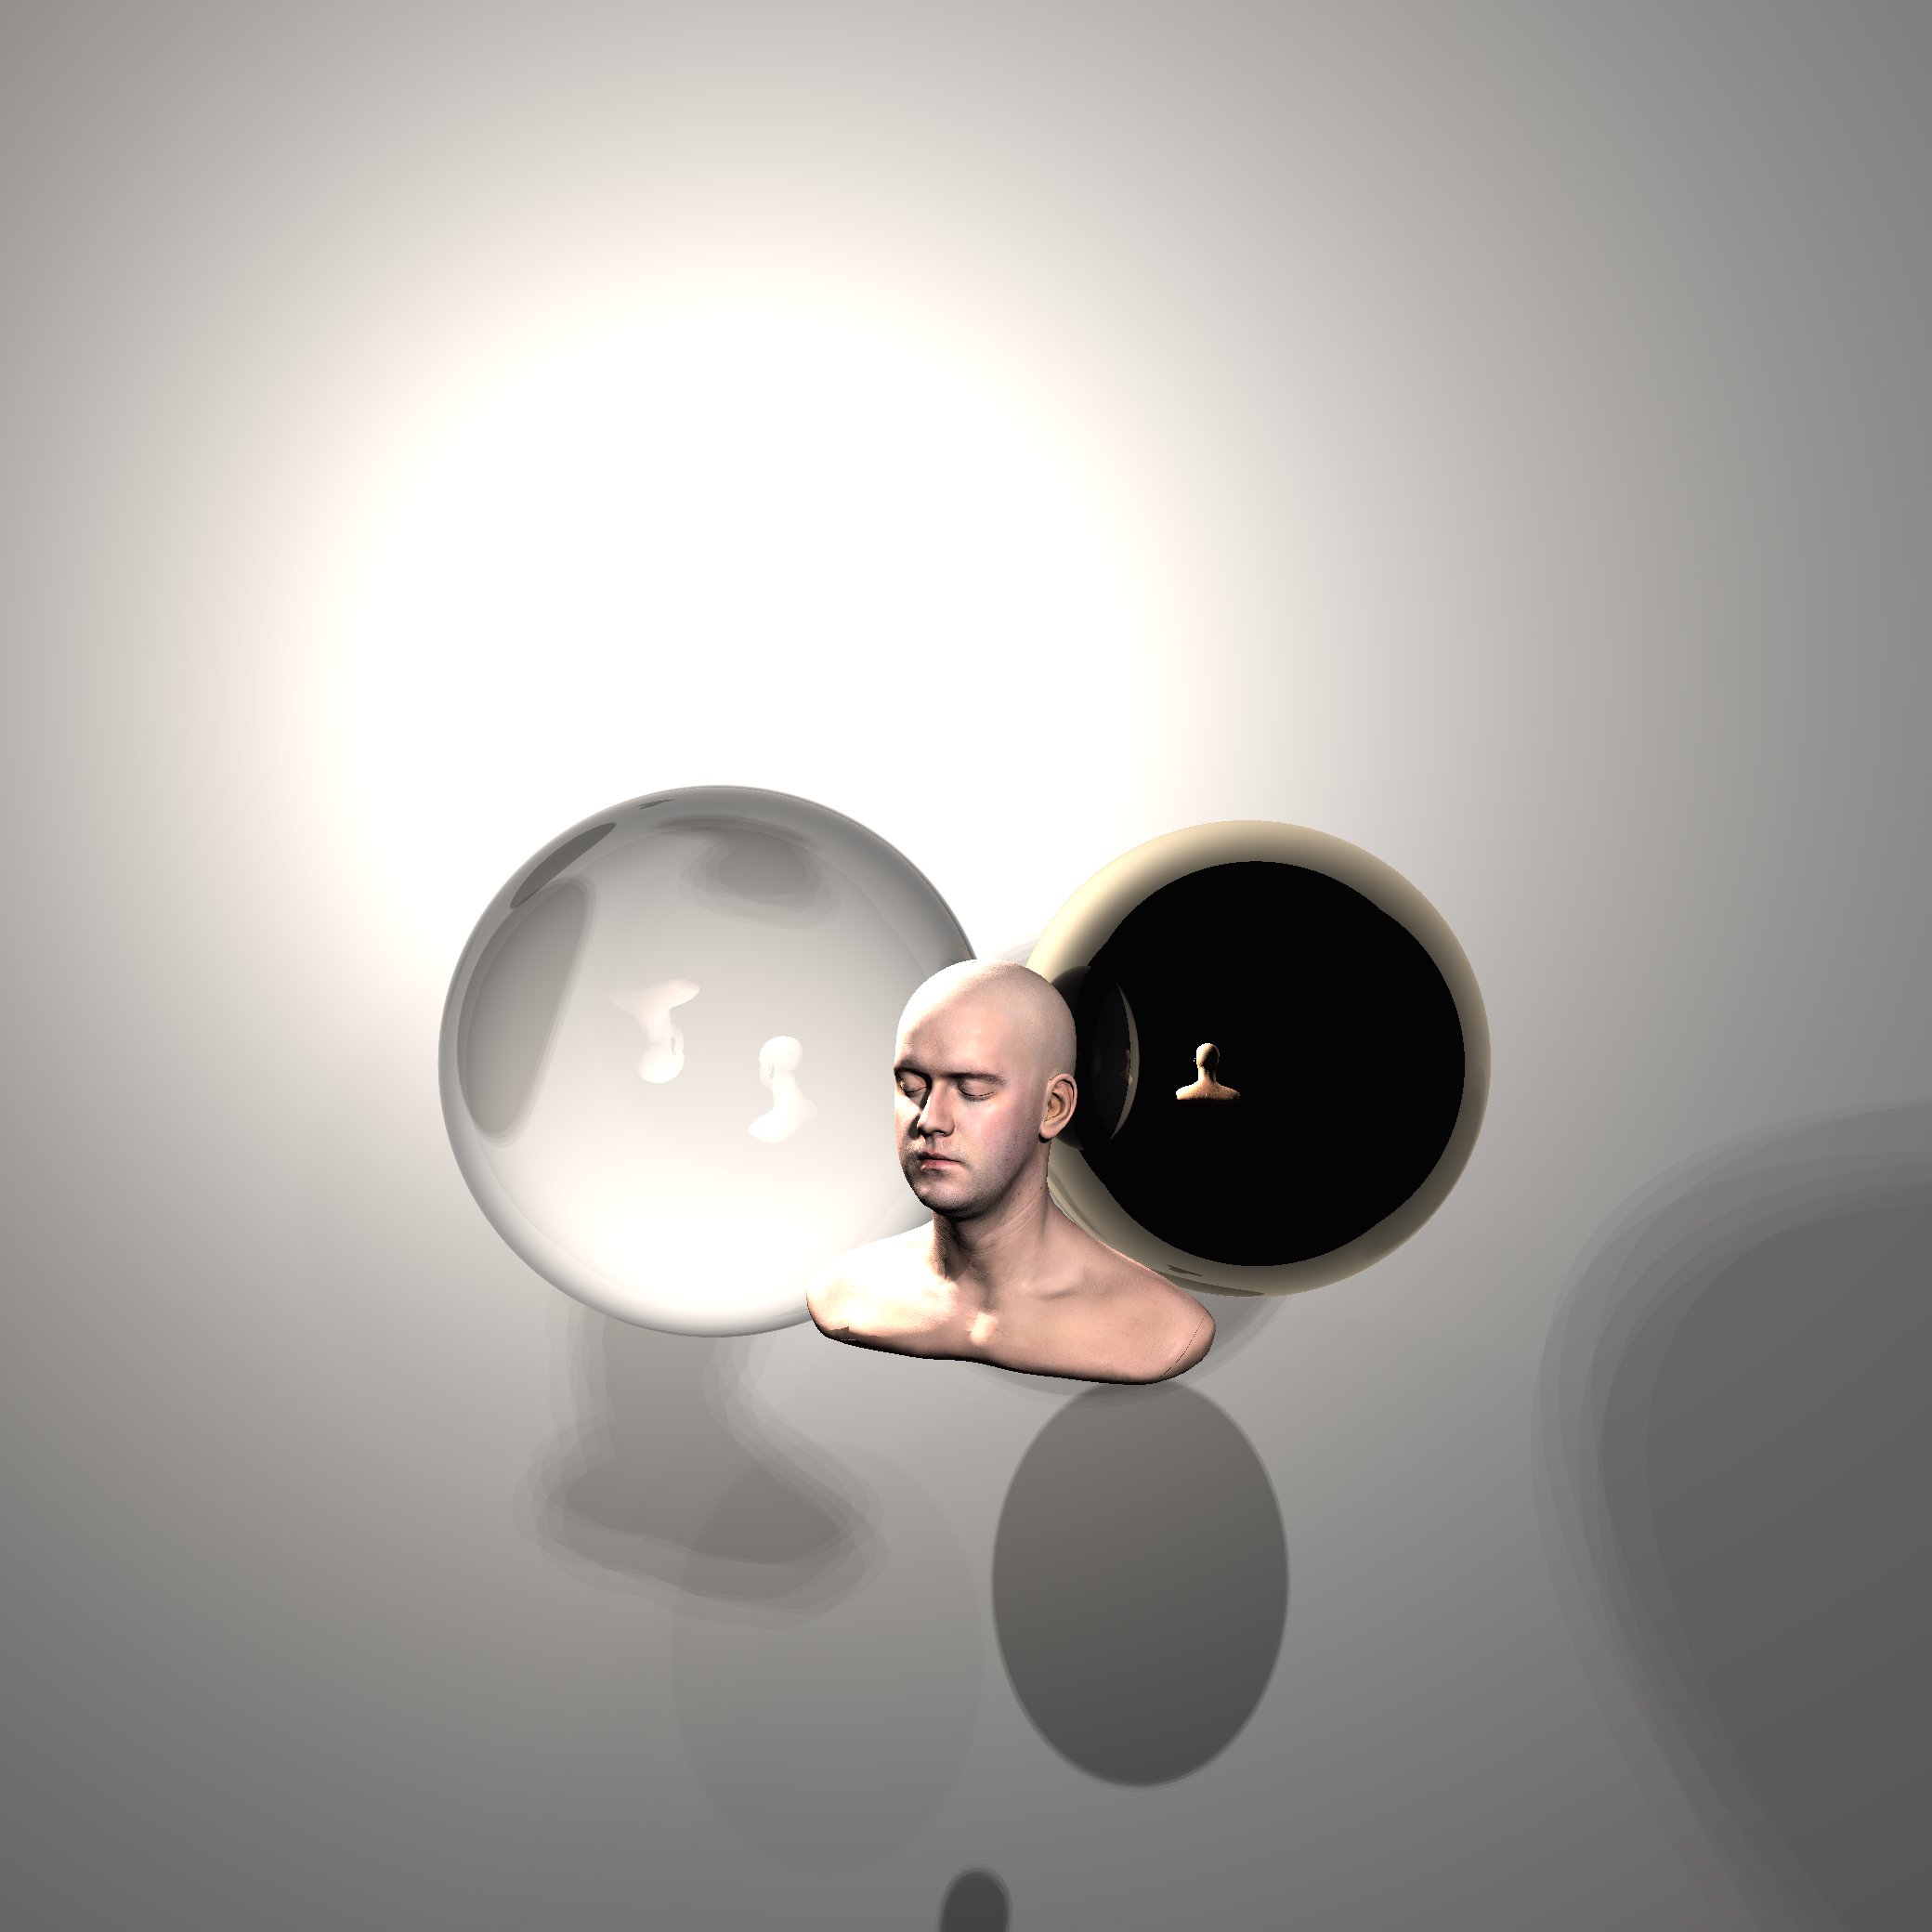
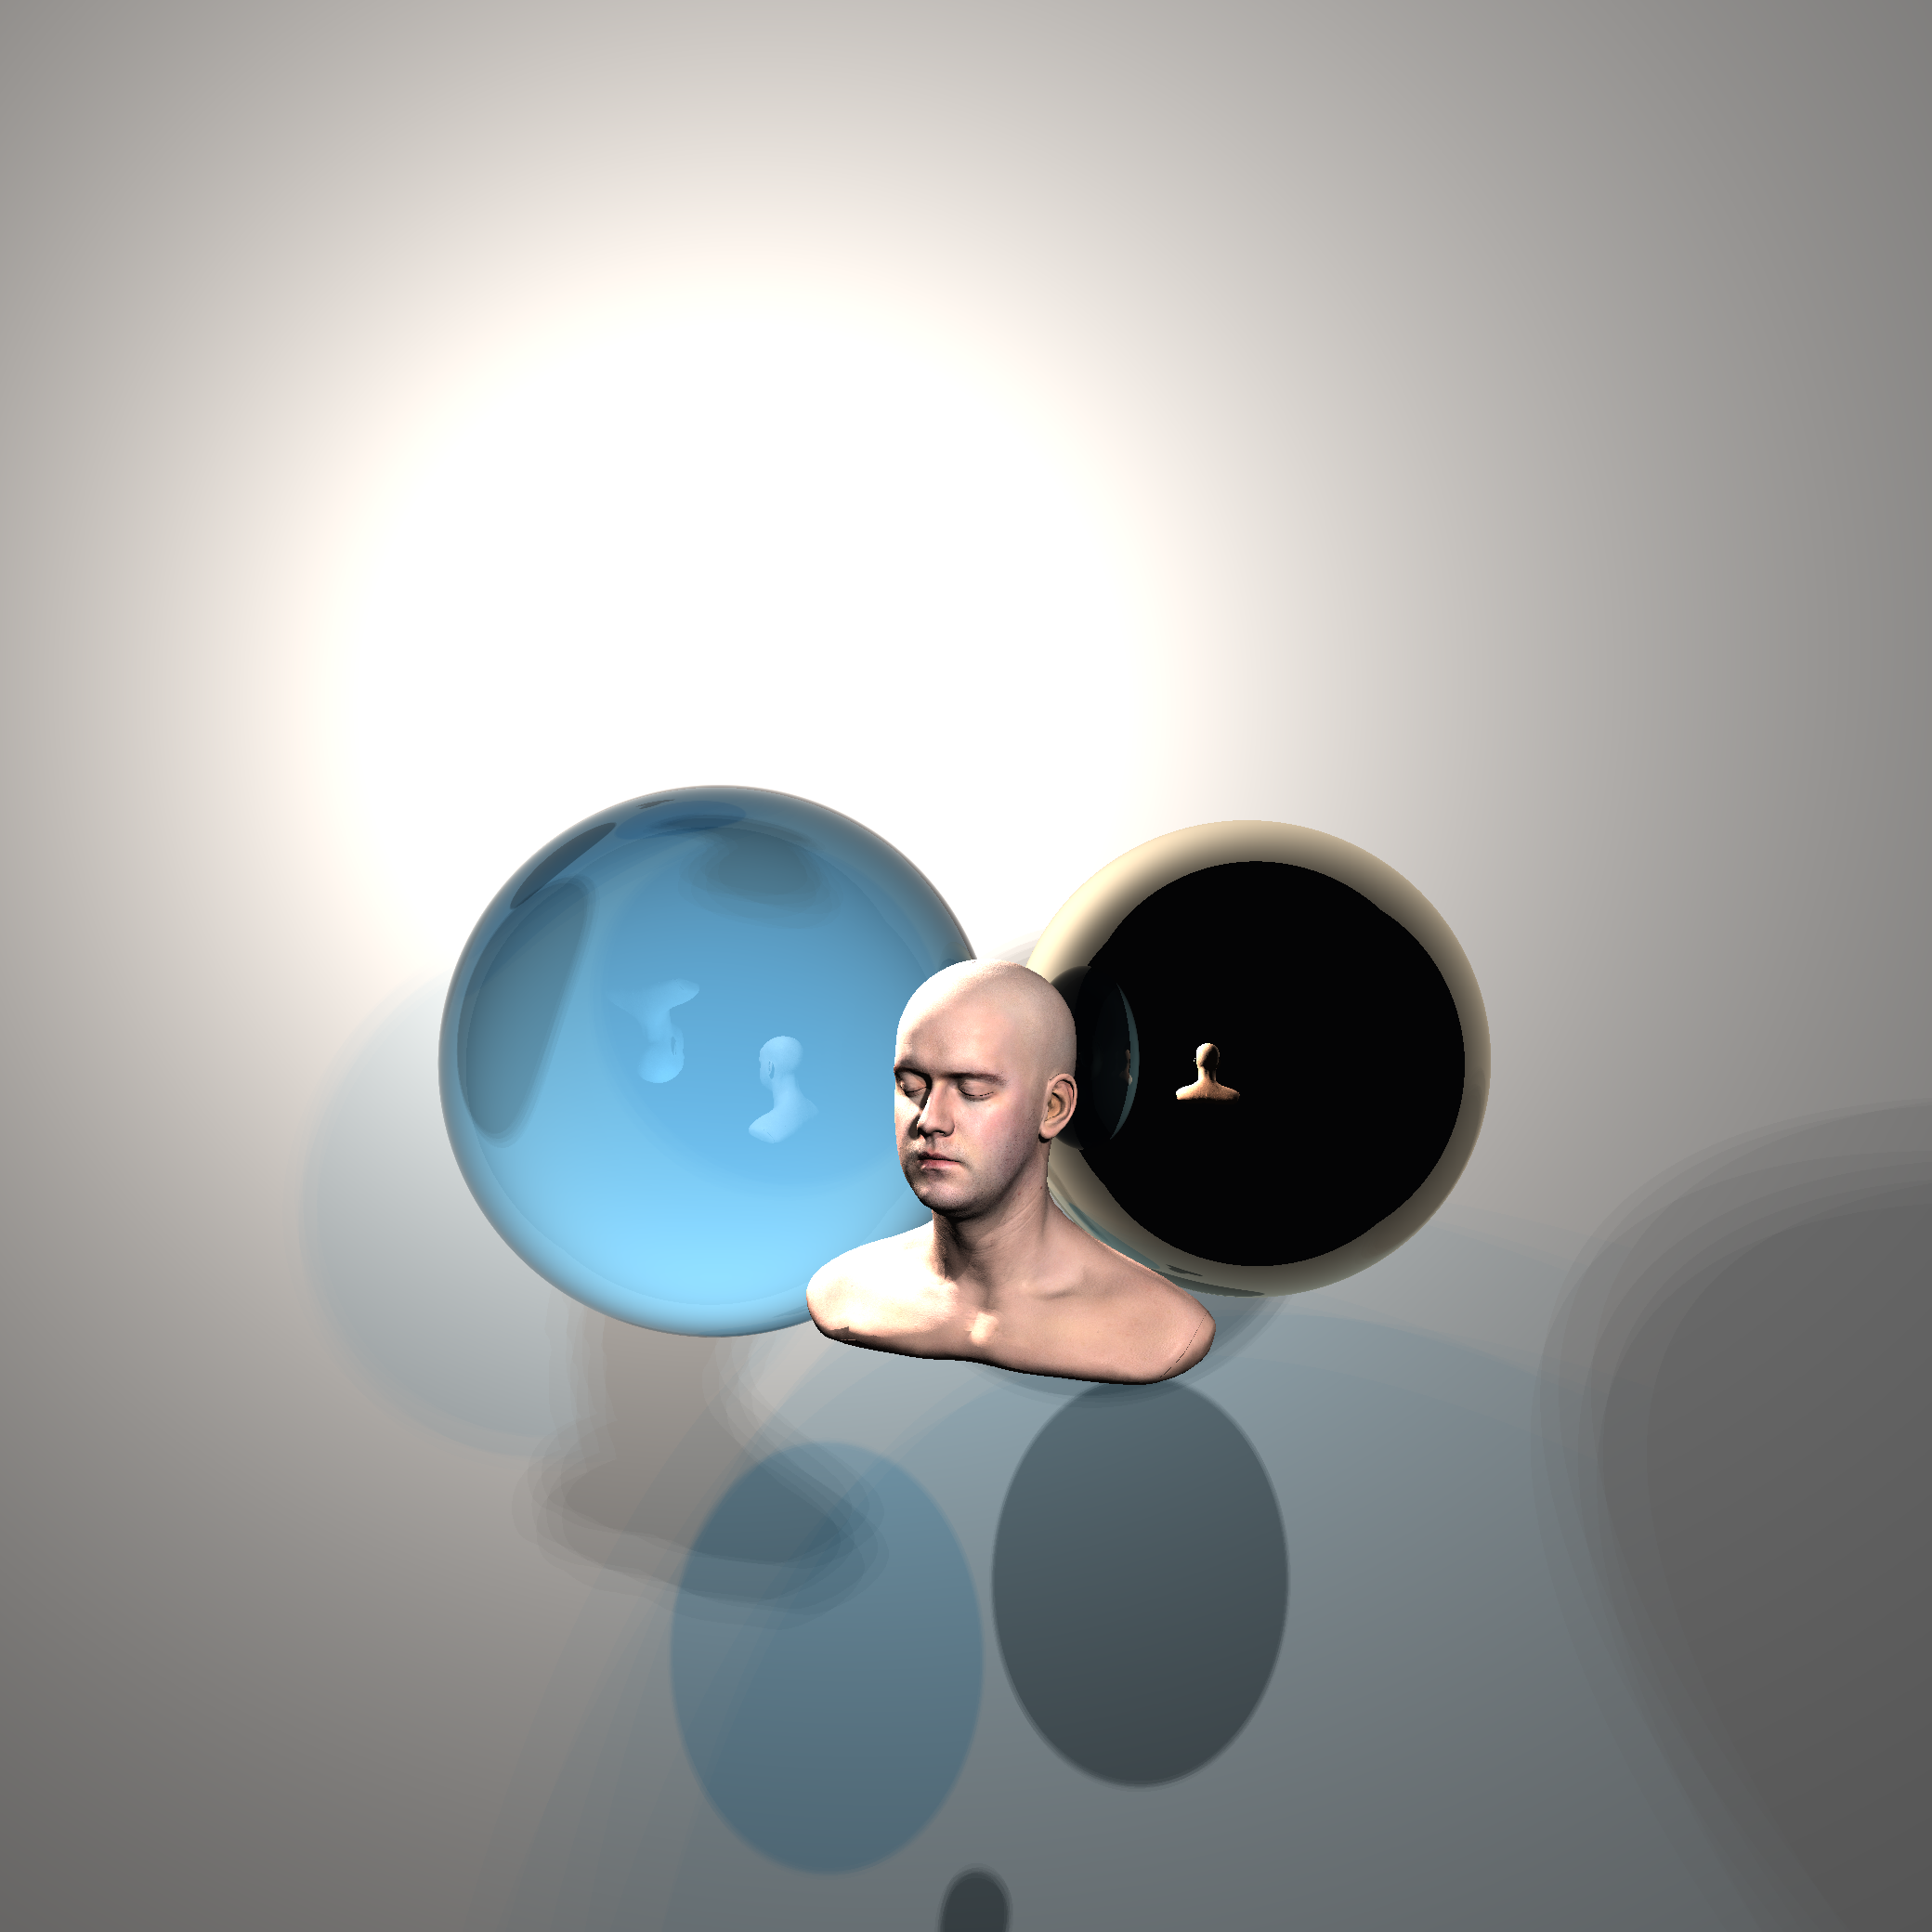
Add volumetric absorption (Beer-Lambert)
Introduce per-material absorption (absorption strength and absorbcolor) and apply Beer-Lambert attenuation to refracted rays. Material now stores absorptionColor and absorptionStrength, exposes getters and computeAbsorptionTransmittance(distance). SceneFileLoader parses absorption and absorbcolor options and propagates them when constructing materials. Geometry classes (Sphere, Triangle, MeshObject3D) forward absorption data into Material. Raytracer multiplies refraction contributions by the computed transmittance when entering a medium. README, example scene, and output image updated to demonstrate tinted glass. Defaults and clamps added to keep values stable.

diff --git a/Project/src/raytracer/material/Material.java b/Project/src/raytracer/material/Material.java
@@ -22,13 +22,15 @@ public class Material {
     private final double transmission;
     private final double ior;
     private final double metalness;
+    private final Color absorptionColor;
+    private final double absorptionStrength;
 
     public Material(Color baseColor, double specularStrength, double shininess, Color specularColor) {
-        this(baseColor, specularStrength, shininess, specularColor, 0.0, 1.0, null, null, null, null, 1.0, 0.0, 0.0, 1.5, 0.0);
+        this(baseColor, specularStrength, shininess, specularColor, 0.0, 1.0, null, null, null, null, 1.0, 0.0, 0.0, 1.5, 0.0, Color.WHITE, 0.0);
     }
 
     public Material(Color baseColor, double specularStrength, double shininess, Color specularColor, Texture2D albedoTexture) {
-        this(baseColor, specularStrength, shininess, specularColor, 0.0, 1.0, albedoTexture, null, null, null, 1.0, 0.0, 0.0, 1.5, 0.0);
+        this(baseColor, specularStrength, shininess, specularColor, 0.0, 1.0, albedoTexture, null, null, null, 1.0, 0.0, 0.0, 1.5, 0.0, Color.WHITE, 0.0);
     }
 
     public Material(
@@ -42,7 +44,7 @@ public class Material {
         Texture2D normalTexture,
         Texture2D roughnessTexture
     ) {
-        this(baseColor, specularStrength, shininess, specularColor, roughness, normalStrength, albedoTexture, normalTexture, roughnessTexture, null, 1.0, 0.0, 0.0, 1.5, 0.0);
+        this(baseColor, specularStrength, shininess, specularColor, roughness, normalStrength, albedoTexture, normalTexture, roughnessTexture, null, 1.0, 0.0, 0.0, 1.5, 0.0, Color.WHITE, 0.0);
     }
 
     public Material(
@@ -73,6 +75,8 @@ public class Material {
             0.0,
             0.0,
             1.5,
+            0.0,
+            Color.WHITE,
             0.0
         );
     }
@@ -94,6 +98,46 @@ public class Material {
         double ior,
         double metalness
     ) {
+        this(
+            baseColor,
+            specularStrength,
+            shininess,
+            specularColor,
+            roughness,
+            normalStrength,
+            albedoTexture,
+            normalTexture,
+            roughnessTexture,
+            bumpTexture,
+            bumpStrength,
+            reflectivity,
+            transmission,
+            ior,
+            metalness,
+            Color.WHITE,
+            0.0
+        );
+    }
+
+    public Material(
+        Color baseColor,
+        double specularStrength,
+        double shininess,
+        Color specularColor,
+        double roughness,
+        double normalStrength,
+        Texture2D albedoTexture,
+        Texture2D normalTexture,
+        Texture2D roughnessTexture,
+        Texture2D bumpTexture,
+        double bumpStrength,
+        double reflectivity,
+        double transmission,
+        double ior,
+        double metalness,
+        Color absorptionColor,
+        double absorptionStrength
+    ) {
         this.baseColor = baseColor == null ? Color.WHITE : baseColor;
         this.specularStrength = Math.max(0.0, specularStrength);
         this.shininess = Math.max(1.0, shininess);
@@ -109,10 +153,12 @@ public class Material {
         this.transmission = clamp01(transmission);
         this.ior = Math.max(1.0, ior);
         this.metalness = clamp01(metalness);
+        this.absorptionColor = absorptionColor == null ? Color.WHITE : absorptionColor;
+        this.absorptionStrength = Math.max(0.0, absorptionStrength);
     }
 
     public static Material fromLegacy(Color color, double specularStrength, double shininess, Color specularColor) {
-        return new Material(color, specularStrength, shininess, specularColor, 0.0, 1.0, null, null, null, null, 1.0, 0.0, 0.0, 1.5, 0.0);
+        return new Material(color, specularStrength, shininess, specularColor, 0.0, 1.0, null, null, null, null, 1.0, 0.0, 0.0, 1.5, 0.0, Color.WHITE, 0.0);
     }
 
     public Color getBaseColor() {
@@ -177,6 +223,23 @@ public class Material {
 
     public double getMetalness() {
         return metalness;
+    }
+
+    public Color getAbsorptionColor() {
+        return absorptionColor;
+    }
+
+    public double getAbsorptionStrength() {
+        return absorptionStrength;
+    }
+
+    public Color computeAbsorptionTransmittance(double distance) {
+        if (absorptionStrength <= 0.0 || distance <= 0.0) {
+            return Color.WHITE;
+        }
+
+        double opticalDepth = absorptionStrength * distance;
+        return new Color(channelBeerLambert(absorptionColor.getR(), opticalDepth), channelBeerLambert(absorptionColor.getG(), opticalDepth), channelBeerLambert(absorptionColor.getB(), opticalDepth));
     }
 
     public Color sampleAlbedo(Intersection hit) {
@@ -257,6 +320,11 @@ public class Material {
 
     private double clamp01(double value) {
         return Math.max(0.0, Math.min(1.0, value));
+    }
+
+    private double channelBeerLambert(double channel, double opticalDepth) {
+        double base = Math.max(1e-6, Math.min(1.0, channel));
+        return Math.pow(base, opticalDepth);
     }
 }
 

diff --git a/Project/src/raytracer/io/scene/SceneFileLoader.java b/Project/src/raytracer/io/scene/SceneFileLoader.java
@@ -271,6 +271,10 @@ public final class SceneFileLoader {
                 overrides.ior = parseDouble(value, lineNumber, "mesh ior");
             } else if ("metalness".equals(option)) {
                 overrides.metalness = parseDouble(value, lineNumber, "mesh metalness");
+            } else if ("absorption".equals(option)) {
+                overrides.absorptionStrength = parseDouble(value, lineNumber, "mesh absorption");
+            } else if ("absorbcolor".equals(option)) {
+                overrides.absorptionColor = parseCsvColor(value, lineNumber, "mesh absorbcolor");
             } else {
                 throw parseError(lineNumber, "Unknown mesh option: " + option);
             }
@@ -381,6 +385,10 @@ public final class SceneFileLoader {
                 overrides.ior = parseDouble(value, lineNumber, "sphere ior");
             } else if ("metalness".equals(option)) {
                 overrides.metalness = parseDouble(value, lineNumber, "sphere metalness");
+            } else if ("absorption".equals(option)) {
+                overrides.absorptionStrength = parseDouble(value, lineNumber, "sphere absorption");
+            } else if ("absorbcolor".equals(option)) {
+                overrides.absorptionColor = parseCsvColor(value, lineNumber, "sphere absorbcolor");
             } else {
                 throw parseError(lineNumber, "Unknown sphere option: " + option);
             }
@@ -456,6 +464,10 @@ public final class SceneFileLoader {
                 overrides.ior = parseDouble(value, lineNumber, "material ior");
             } else if ("metalness".equals(option)) {
                 overrides.metalness = parseDouble(value, lineNumber, "material metalness");
+            } else if ("absorption".equals(option)) {
+                overrides.absorptionStrength = parseDouble(value, lineNumber, "material absorption");
+            } else if ("absorbcolor".equals(option)) {
+                overrides.absorptionColor = parseCsvColor(value, lineNumber, "material absorbcolor");
             } else {
                 throw parseError(lineNumber, "Unknown material option: " + option);
             }
@@ -487,6 +499,8 @@ public final class SceneFileLoader {
         double transmission = baseMaterial != null ? baseMaterial.getTransmission() : 0.0;
         double ior = baseMaterial != null ? baseMaterial.getIor() : 1.5;
         double metalness = baseMaterial != null ? baseMaterial.getMetalness() : 0.0;
+        Color absorptionColor = baseMaterial != null ? baseMaterial.getAbsorptionColor() : Color.WHITE;
+        double absorptionStrength = baseMaterial != null ? baseMaterial.getAbsorptionStrength() : 0.0;
 
         if (overrides.specularStrength != null) {
             specular = overrides.specularStrength;
@@ -524,6 +538,12 @@ public final class SceneFileLoader {
         if (overrides.metalness != null) {
             metalness = overrides.metalness;
         }
+        if (overrides.absorptionColor != null) {
+            absorptionColor = overrides.absorptionColor;
+        }
+        if (overrides.absorptionStrength != null) {
+            absorptionStrength = overrides.absorptionStrength;
+        }
 
         return new Material(
             baseColor,
@@ -540,7 +560,9 @@ public final class SceneFileLoader {
             reflectivity,
             transmission,
             ior,
-            metalness
+            metalness,
+            absorptionColor,
+            absorptionStrength
         );
     }
 
@@ -555,6 +577,8 @@ public final class SceneFileLoader {
         resolved.transmission = overrides.transmission;
         resolved.ior = overrides.ior;
         resolved.metalness = overrides.metalness;
+        resolved.absorptionColor = overrides.absorptionColor;
+        resolved.absorptionStrength = overrides.absorptionStrength;
 
         resolved.albedoMapSet = overrides.albedoMapSet;
         resolved.normalMapSet = overrides.normalMapSet;
@@ -774,6 +798,8 @@ public final class SceneFileLoader {
         private Double transmission;
         private Double ior;
         private Double metalness;
+        private Color absorptionColor;
+        private Double absorptionStrength;
         private String albedoMapPath;
         private String normalMapPath;
         private String roughnessMapPath;
@@ -791,6 +817,8 @@ public final class SceneFileLoader {
                 || transmission != null
                 || ior != null
                 || metalness != null
+                || absorptionColor != null
+                || absorptionStrength != null
                 || albedoMapSet
                 || normalMapSet
                 || roughnessMapSet;
@@ -807,6 +835,8 @@ public final class SceneFileLoader {
         private Double transmission;
         private Double ior;
         private Double metalness;
+        private Color absorptionColor;
+        private Double absorptionStrength;
         private Texture2D albedoMap;
         private Texture2D normalMap;
         private Texture2D roughnessMap;

diff --git a/Project/src/raytracer/geometry/Sphere.java b/Project/src/raytracer/geometry/Sphere.java
@@ -75,6 +75,12 @@ public class Sphere implements Object3D {
         Color baseColor = material != null ? material.getBaseColor() : this.color;
         double roughness = material != null ? material.getRoughness() : 0.0;
         double normalStrength = material != null ? material.getNormalStrength() : 1.0;
+        double reflectivity = material != null ? material.getReflectivity() : 0.0;
+        double transmission = material != null ? material.getTransmission() : 0.0;
+        double ior = material != null ? material.getIor() : 1.5;
+        double metalness = material != null ? material.getMetalness() : 0.0;
+        Color absorptionColor = material != null ? material.getAbsorptionColor() : Color.WHITE;
+        double absorptionStrength = material != null ? material.getAbsorptionStrength() : 0.0;
         this.material = new Material(
             baseColor,
             this.specularStrength,
@@ -86,7 +92,13 @@ public class Sphere implements Object3D {
             material != null ? material.getNormalTexture() : null,
             material != null ? material.getRoughnessTexture() : null,
             material != null ? material.getBumpTexture() : null,
-            material != null ? material.getBumpStrength() : 1.0
+            material != null ? material.getBumpStrength() : 1.0,
+            reflectivity,
+            transmission,
+            ior,
+            metalness,
+            absorptionColor,
+            absorptionStrength
         );
     }
 

diff --git a/Project/src/raytracer/geometry/MeshObject3D.java b/Project/src/raytracer/geometry/MeshObject3D.java
@@ -254,6 +254,8 @@ public class MeshObject3D implements Object3D {
         double transmission = material != null ? material.getTransmission() : 0.0;
         double ior = material != null ? material.getIor() : 1.5;
         double metalness = material != null ? material.getMetalness() : 0.0;
+        Color absorptionColor = material != null ? material.getAbsorptionColor() : Color.WHITE;
+        double absorptionStrength = material != null ? material.getAbsorptionStrength() : 0.0;
         this.material = new Material(
             baseColor,
             this.specularStrength,
@@ -269,7 +271,9 @@ public class MeshObject3D implements Object3D {
             reflectivity,
             transmission,
             ior,
-            metalness
+            metalness,
+            absorptionColor,
+            absorptionStrength
         );
     }
 

diff --git a/Project/src/raytracer/geometry/Triangle.java b/Project/src/raytracer/geometry/Triangle.java
@@ -171,6 +171,8 @@ public class Triangle implements Object3D {
         double transmission = material != null ? material.getTransmission() : 0.0;
         double ior = material != null ? material.getIor() : 1.5;
         double metalness = material != null ? material.getMetalness() : 0.0;
+        Color absorptionColor = material != null ? material.getAbsorptionColor() : Color.WHITE;
+        double absorptionStrength = material != null ? material.getAbsorptionStrength() : 0.0;
         this.material = new Material(
             baseColor,
             this.specularStrength,
@@ -186,7 +188,9 @@ public class Triangle implements Object3D {
             reflectivity,
             transmission,
             ior,
-            metalness
+            metalness,
+            absorptionColor,
+            absorptionStrength
         );
     }
 

diff --git a/Project/src/raytracer/renderer/Raytracer.java b/Project/src/raytracer/renderer/Raytracer.java
@@ -302,6 +302,11 @@ public class Raytracer {
                 Point3D refractionOrigin = closest.getPoint().add(refractionDirection.multiply(SECONDARY_RAY_EPSILON));
                 Intersection refractionHit = findClosestIntersection(new Ray(refractionOrigin, refractionDirection), SECONDARY_RAY_EPSILON, Double.POSITIVE_INFINITY);
                 Color refractionColor = traceRay(new Ray(refractionOrigin, refractionDirection), refractionHit, depth + 1, n2);
+                // Beer lmbert attenuation, when entering the medium, attenuate by traveled thickness before next hit, so thicker seems more tinted
+                if (frontFace && refractionHit != null) {
+                    Color absorption = material.computeAbsorptionTransmittance(refractionHit.getDistance());
+                    refractionColor = refractionColor.multiply(absorption);
+                }
                 result = result.add(refractionColor.multiply(refractionWeight));
             } else {
                 //total internal reflection fallback

diff --git a/Project/README.md b/Project/README.md
@@ -172,6 +172,8 @@ material name inherit=baseName [options]
   - `transmission=double` (0..1)
   - `ior=double` (>= 1, glass often ~1.5)
   - `metalness=double` (0..1)
+  - `absorption=double` (>= 0, Beer Lambert density)
+  - `absorbcolor=r,g,b` (Beer Lambert per channel transmittance color)
 
 Notes:
 - Transparent materials cast colored transmission shadows using per-hit transmittance along the shadow ray.